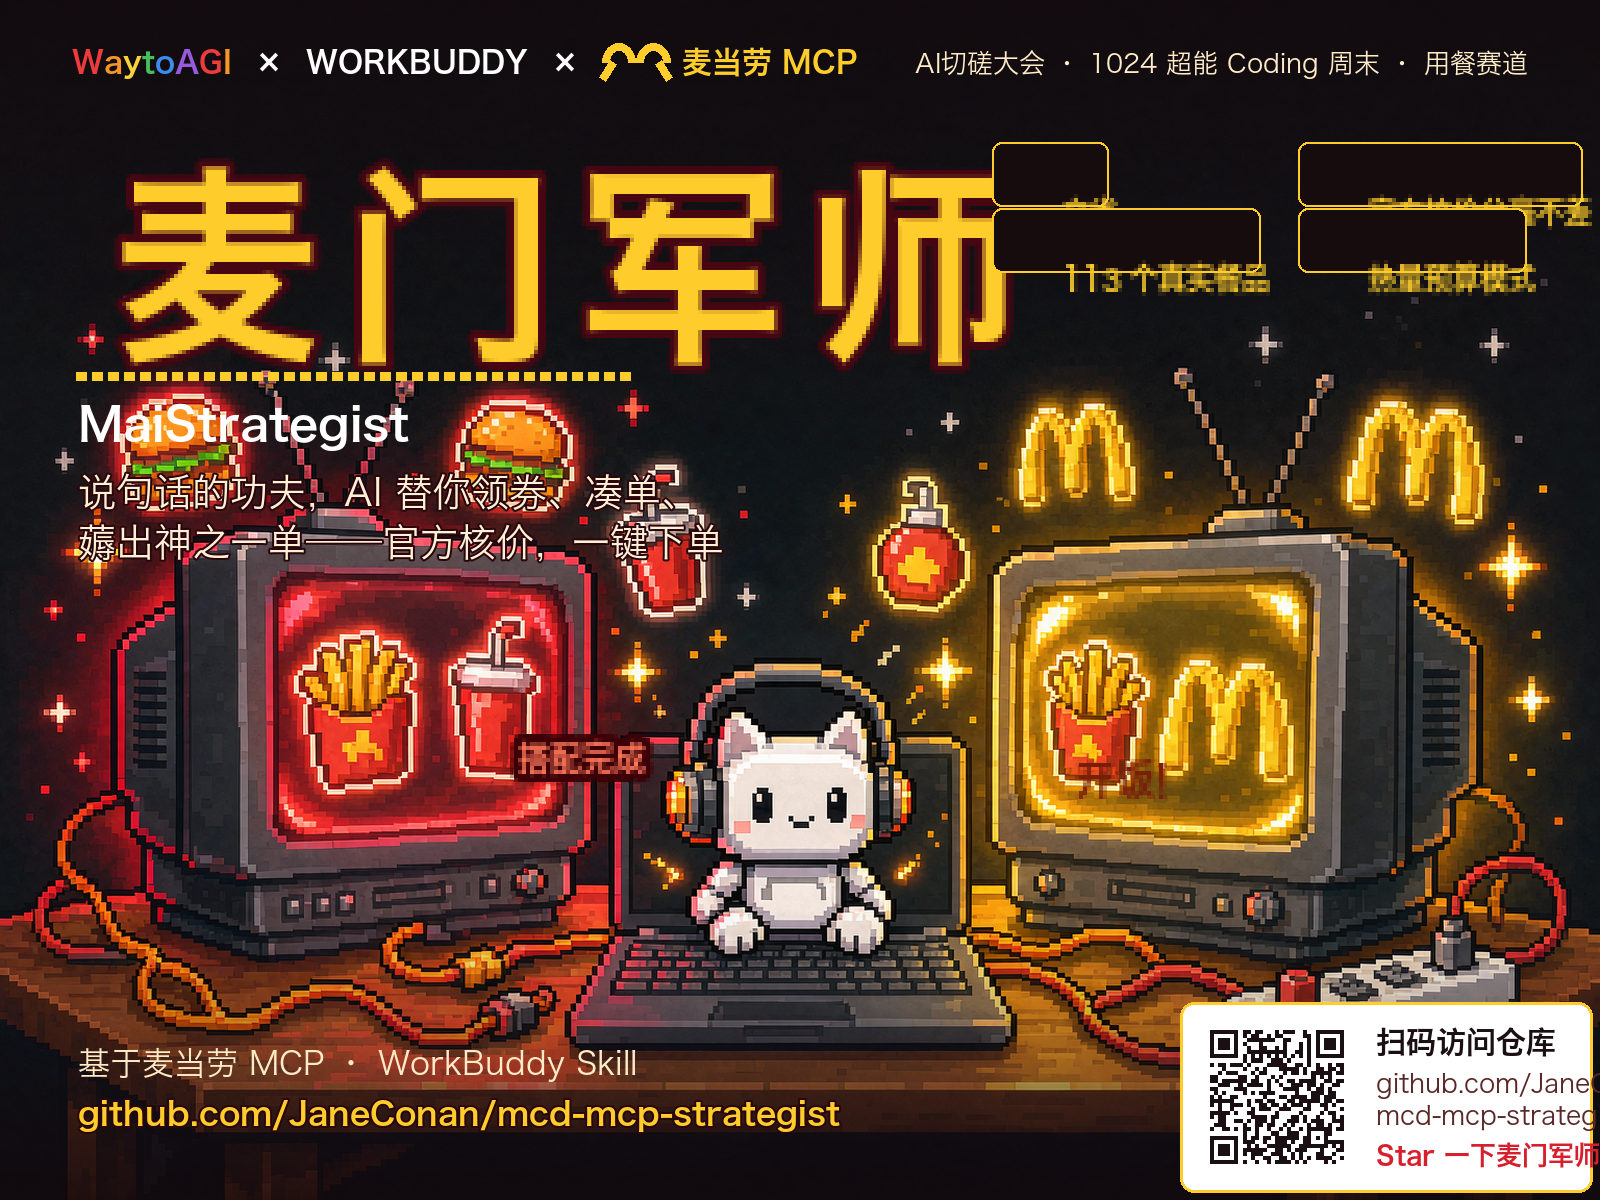
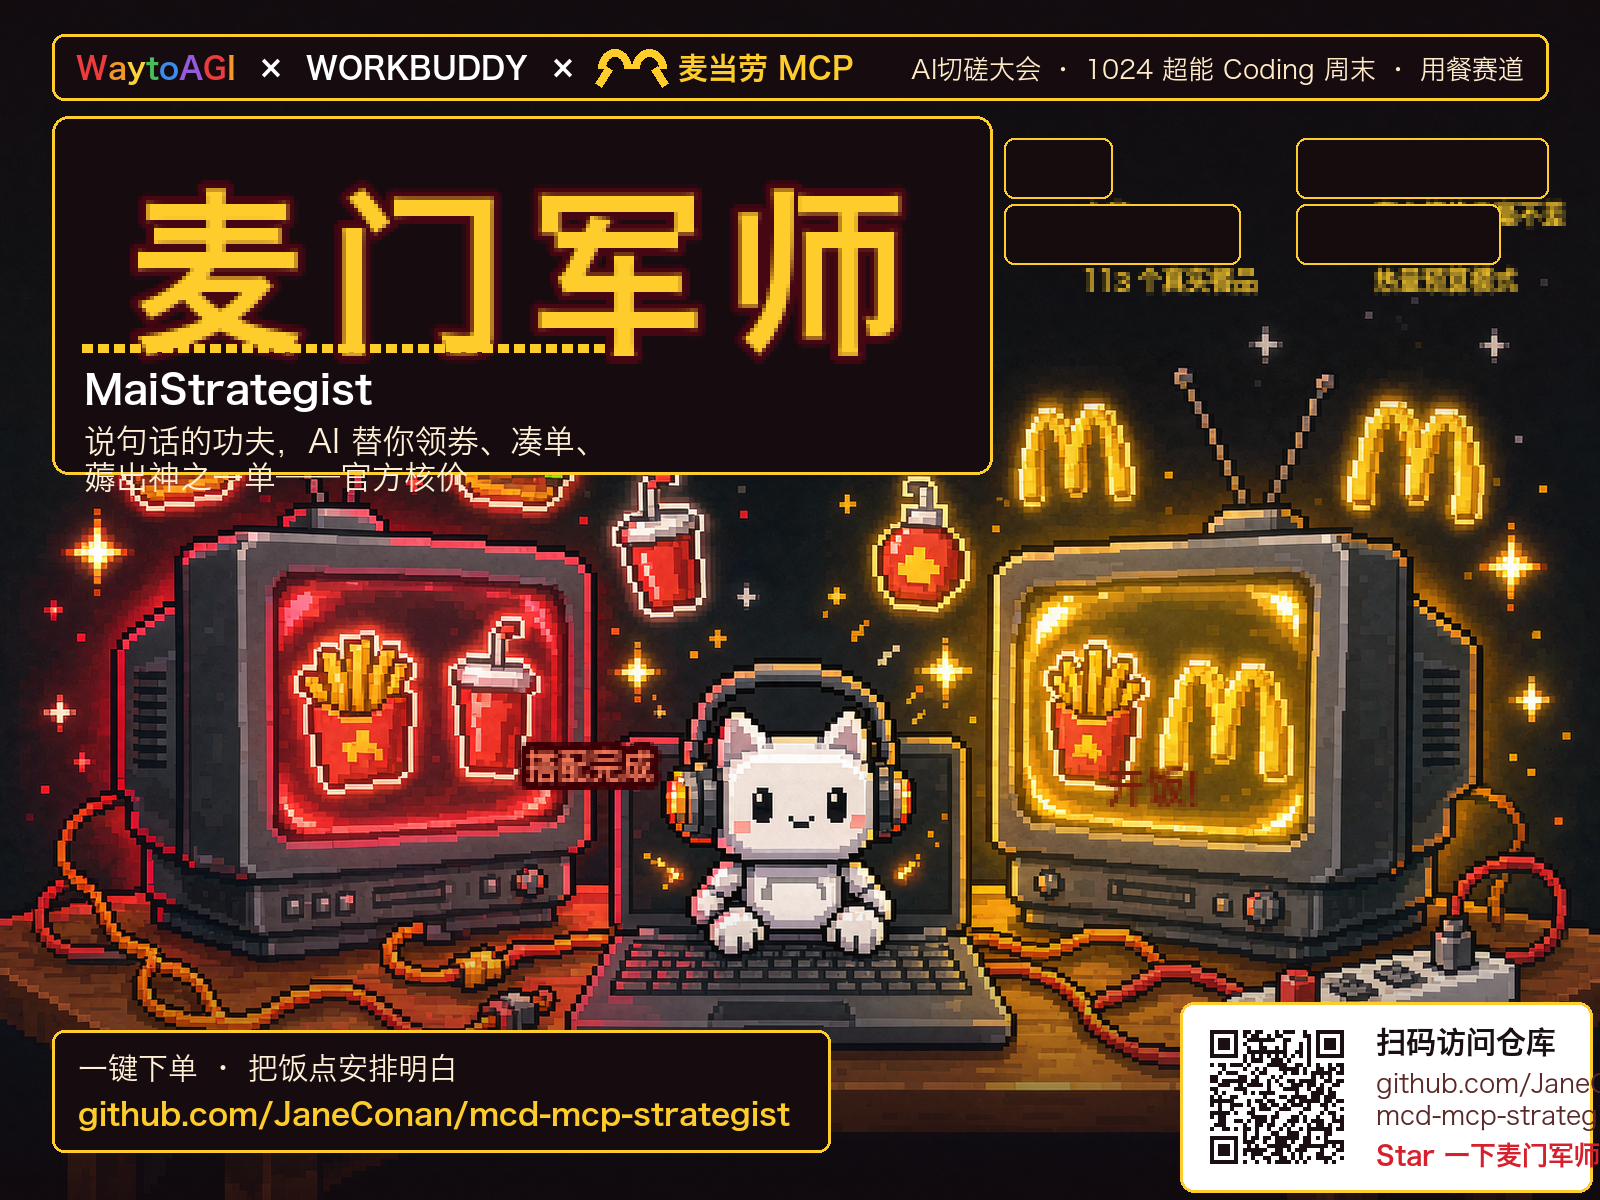
style: 封面所有文字块加深色金边面板(游戏对话框风)，解决文字糊在背景上
- 顶部联名横条 / 标题大对话框 / 左下信息面板 / 战绩 HUD / 二维码卡片
- 标语补回'官方核价'; 胶囊网格收边; '开饭!'入屏; QR 双格式复验可扫

diff --git a/scripts/make_cover.py b/scripts/make_cover.py
@@ -1,15 +1,16 @@
 #!/usr/bin/env python3
 # -*- coding: utf-8 -*-
 """
-生成 1024 提交用作品封面 v2（1600x1200, 4:3）——像素复古风。
+生成 1024 提交用作品封面 v3（1600x1200, 4:3）——像素复古风。
 参考 WaytoAGI 1024 用餐赛道官方海报视觉语言：8-bit 像素背景 + CRT 电视 +
-手绘金色 M + 彩虹联名行；中文大字用小字号渲染后 NEAREST 放大，得到真像素锯齿。
+手绘金色 M + 彩虹联名行；所有文字块都垫深色金边面板（游戏对话框风格），
+保证任何背景下文字都清晰。中文大字用小字号渲染后 NEAREST 放大得真像素锯齿。
 用法：python3 scripts/make_cover.py
 """
 import os
 import sys
 
-from PIL import Image, ImageDraw, ImageFont, ImageFilter
+from PIL import Image, ImageDraw, ImageFont
 
 HERE = os.path.dirname(os.path.abspath(__file__))
 ROOT = os.path.dirname(HERE)
@@ -21,10 +22,10 @@ W, H = 1600, 1200
 PIX = 4  # 像素放大倍数
 
 GOLD = (255, 205, 43)
-GOLD_DEEP = (255, 176, 32)
 RED = (214, 32, 46)
 RED_DARK = (70, 6, 18)
-INK = (26, 16, 20)          # 深咖底色
+INK = (26, 16, 20)
+PANEL = (22, 12, 16, 236)     # 面板底
 WHITE = (255, 255, 255)
 CREAM = (255, 240, 214)
 RAINBOW = [(238, 60, 60), (245, 150, 40), (250, 210, 60), (70, 190, 90),
@@ -41,40 +42,39 @@ def font(size, bold=False):
 
 def pixel_text(img, pos, text, final_size, fill, stroke_fill=None,
                bold=True, scale=PIX, stroke_w=2, spacing=0):
-    """小字号渲染后 NEAREST 放大，得到 8-bit 像素文字。spacing 为字间距(像素, 最终尺寸)。"""
+    """小字号渲染后 NEAREST 放大，得到 8-bit 像素文字。spacing 为字间距(最终像素)。"""
     small = final_size // scale
     f = font(small, bold)
     sw = stroke_w if stroke_fill else 0
+    tmp = Image.new("RGBA", (10, 10))
+    td = ImageDraw.Draw(tmp)
+    bbox = td.textbbox((0, 0), text, font=f, stroke_width=sw)
     if spacing:
-        # 逐字绘制以实现字间距
-        tmp = Image.new("RGBA", (10, 10))
-        td = ImageDraw.Draw(tmp)
-        bbox = td.textbbox((0, 0), text, font=f, stroke_width=sw)
         w = td.textlength(text, font=f) + spacing * (len(text) - 1)
-        layer = Image.new("RGBA", (int(w) + 20, bbox[3] - bbox[1] + 20), (0, 0, 0, 0))
+        layer = Image.new("RGBA", (int(w) + 24, bbox[3] - bbox[1] + 24), (0, 0, 0, 0))
         ld = ImageDraw.Draw(layer)
-        x = 10 - bbox[0]
+        x = 12 - bbox[0]
         for ch in text:
-            ld.text((x, 10 - bbox[1]), ch, font=f, fill=fill,
+            ld.text((x, 12 - bbox[1]), ch, font=f, fill=fill,
                     stroke_width=sw, stroke_fill=stroke_fill or fill)
             x += ld.textlength(ch, font=f) + spacing
     else:
-        tmp = Image.new("RGBA", (10, 10))
-        td = ImageDraw.Draw(tmp)
-        bbox = td.textbbox((0, 0), text, font=f, stroke_width=sw)
-        layer = Image.new("RGBA", (bbox[2] - bbox[0] + 20, bbox[3] - bbox[1] + 20),
+        layer = Image.new("RGBA", (bbox[2] - bbox[0] + 24, bbox[3] - bbox[1] + 24),
                           (0, 0, 0, 0))
         ld = ImageDraw.Draw(layer)
-        ld.text((10 - bbox[0], 10 - bbox[1]), text, font=f, fill=fill,
+        ld.text((12 - bbox[0], 12 - bbox[1]), text, font=f, fill=fill,
                 stroke_width=sw, stroke_fill=stroke_fill or fill)
     big = layer.resize((layer.width * scale, layer.height * scale), Image.NEAREST)
     img.paste(big, pos, big)
-    return big.width, big.height
 
 
 def draw_text(d, xy, s, f, fill, stroke=0, stroke_fill=None):
     d.text(xy, s, font=f, fill=fill, stroke_width=stroke,
            stroke_fill=stroke_fill or RED_DARK)
+
+
+def panel(d, box, radius=14, fill=PANEL, outline=GOLD, width=3):
+    d.rounded_rectangle(box, radius=radius, fill=fill, outline=outline, width=width)
 
 
 def draw_m_logo(d, x, y, s=34, color=GOLD):
@@ -91,7 +91,7 @@ def draw_m_logo(d, x, y, s=34, color=GOLD):
 
 
 def pixel_pill(img, x, y, text, final_size, pad_x=30, pad_y=14,
-               bg=(22, 12, 14, 205), outline=(255, 205, 43, 160), fill=GOLD):
+               bg=(22, 12, 14, 225), outline=(255, 205, 43, 200), fill=GOLD):
     d = ImageDraw.Draw(img)
     small = final_size // PIX
     f = font(small, True)
@@ -114,87 +114,81 @@ def main():
 
     bg = Image.open(BG).convert("RGBA").resize((W, H), Image.LANCZOS)
 
-    # 顶部与底部压暗，保证文字可读（中间电视区保持鲜艳）
+    # 顶部与底部压暗，让面板与场景融合
     shade = Image.new("L", (W, H), 0)
     sd = ImageDraw.Draw(shade)
     for y in range(H):
-        top = max(0, int(190 * (1 - y / 430.0) ** 1.4)) if y < 430 else 0
-        bot = max(0, int(200 * ((y - 900) / 300.0) ** 1.4)) if y > 900 else 0
+        top = max(0, int(170 * (1 - y / 470.0) ** 1.4)) if y < 470 else 0
+        bot = max(0, int(190 * ((y - 880) / 320.0) ** 1.4)) if y > 880 else 0
         sd.line([(0, y), (W, y)], fill=max(top, bot))
     dark = Image.new("RGBA", (W, H), (18, 8, 12, 255))
     bg = Image.composite(dark, bg, shade).convert("RGBA")
     d = ImageDraw.Draw(bg)
 
-    # ---- 顶部联名行：WaytoAGI 彩虹字 × WorkBuddy × 金色M 麦当劳 MCP ----
+    # ============ 面板 1：顶部联名横条 ============
+    panel(d, [52, 34, W - 52, 100], radius=12)
     f_brand = font(30, bold=True)
-    x = 72
-    y = 46
+    x, y = 76, 52
     for i, ch in enumerate("WaytoAGI"):
         d.text((x, y), ch, font=f_brand, fill=RAINBOW[i % len(RAINBOW)])
         x += d.textlength(ch, font=f_brand)
-    d.text((x + 22, y), "×", font=f_brand, fill=(255, 255, 255, 200))
-    x += 22 + d.textlength("×", font=f_brand) + 22
+    d.text((x + 20, y), "×", font=f_brand, fill=(255, 255, 255, 210))
+    x += 20 + d.textlength("×", font=f_brand) + 20
     d.text((x, y), "WORKBUDDY", font=font(30, True), fill=WHITE)
     x += d.textlength("WORKBUDDY", font=f_brand)
-    d.text((x + 22, y), "×", font=f_brand, fill=(255, 255, 255, 200))
-    x += 22 + d.textlength("×", font=f_brand) + 22
+    d.text((x + 20, y), "×", font=f_brand, fill=(255, 255, 255, 210))
+    x += 20 + d.textlength("×", font=f_brand) + 20
     draw_m_logo(d, x, y - 4, 34)
     x += 34 * 2 + 12
     d.text((x, y), "麦当劳 MCP", font=f_brand, fill=GOLD)
-
     # 右上角赛事信息
     f_evt = font(26)
     txt = "AI切磋大会 · 1024 超能 Coding 周末 · 用餐赛道"
-    d.text((W - 72 - d.textlength(txt, font=f_evt), y + 4), txt,
-           font=f_evt, fill=(255, 235, 200, 220))
+    d.text((W - 76 - d.textlength(txt, font=f_evt), y + 4), txt,
+           font=f_evt, fill=(255, 235, 200, 235))
 
-    # ---- 像素大标题 ----
-    pixel_text(bg, (66, 118), "麦门军师", 208, GOLD, stroke_fill=RED_DARK,
+    # ============ 面板 2：标题区（大对话框） ============
+    panel(d, [52, 116, 992, 474], radius=16)
+    pixel_text(bg, (74, 132), "麦门军师", 176, GOLD, stroke_fill=RED_DARK,
                bold=True, stroke_w=2, spacing=6)
-    # 标题下像素金线
-    for i in range(0, 560, 16):
-        d.rectangle([76 + i, 372, 76 + i + 10, 380], fill=GOLD)
+    for i in range(0, 520, 16):                       # 像素金线
+        d.rectangle([82 + i, 344, 82 + i + 10, 352], fill=GOLD)
+    d.text((84, 368), "MaiStrategist", font=font(40, True), fill=WHITE)
+    f_tag = font(32)
+    draw_text(d, (84, 424), "说句话的功夫，AI 替你领券、凑单、", f_tag, CREAM)
+    draw_text(d, (84, 460), "薅出神之一单——官方核价", f_tag, CREAM)
 
-    # ---- 英文名 + 一句话 ----
-    d.text((78, 400), "MaiStrategist", font=font(46, True), fill=WHITE)
-    f_tag = font(38)
-    draw_text(d, (78, 472), "说句话的功夫，AI 替你领券、凑单、", f_tag, CREAM,
-              stroke=2, stroke_fill=(40, 6, 12))
-    draw_text(d, (78, 522), "薅出神之一单——官方核价，一键下单", f_tag, CREAM,
-              stroke=2, stroke_fill=(40, 6, 12))
-
-    # ---- 战绩胶囊（像素风，右上角 2x2 悬浮面板） ----
+    # ============ 战绩胶囊（右上 2x2 HUD 面板） ============
     stats = ["立省", "官方核价分毫不差", "113 个真实餐品", "热量预算模式"]
     for i, t in enumerate(stats):
         col, row = i % 2, i // 2
-        pixel_pill(bg, 992 + col * 306, 142 + row * 66, t, 28)
+        pixel_pill(bg, 1004 + col * 292, 138 + row * 66, t, 26)
 
-    # ---- CRT 屏幕叠字（呼应官方海报的"搭配完成/开饭"） ----
-    # 左屏（红）：搭配完成 ✓
-    pixel_text(bg, (470, 690), "搭配完成", 34, (255, 120, 90),
+    # ============ CRT 屏幕叠字 ============
+    pixel_text(bg, (470, 690), "搭配完成", 34, (255, 130, 95),
                stroke_fill=(60, 0, 6), bold=True)
-    # 右屏（黄）：开饭！
-    pixel_text(bg, (1035, 715), "开饭!", 40, (120, 30, 10), bold=True)
+    pixel_text(bg, (1058, 715), "开饭!", 40, (120, 30, 10), bold=True)
 
-    # ---- 左下角信息 ----
-    d.text((78, 1046), "基于麦当劳 MCP · WorkBuddy Skill", font=font(32),
-           fill=(255, 235, 200, 230))
-    d.text((78, 1096), "github.com/JaneConan/mcd-mcp-strategist",
-           font=font(32, True), fill=GOLD, stroke_width=2,
-           stroke_fill=(40, 6, 12))
+    # ============ 面板 3：左下信息区 ============
+    panel(d, [52, 1030, 830, 1152], radius=12)
+    d.text((78, 1052), "一键下单 · 把饭点安排明白",
+           font=font(30), fill=CREAM)
+    d.text((78, 1098), "github.com/JaneConan/mcd-mcp-strategist",
+           font=font(30, True), fill=GOLD)
 
-    # ---- 右下：二维码卡片（盖住 AI 水印，扫码直达仓库） ----
+    # ============ 右下：二维码卡片 ============
     try:
         import qrcode
         qr = qrcode.QRCode(error_correction=qrcode.constants.ERROR_CORRECT_M,
                            box_size=10, border=2)
         qr.add_data("https://github.com/JaneConan/mcd-mcp-strategist")
         qr.make(fit=True)
-        qr_img = qr.make_image(fill_color="#1a1014", back_color="white").convert("RGB")
+        qr_img = qr.make_image(fill_color="#1a1014",
+                               back_color="white").convert("RGB")
         qr_size = 150
         qr_img = qr_img.resize((qr_size, qr_size), Image.NEAREST)
         card = [1180, 1002, W - 8, H - 8]
-        d.rounded_rectangle(card, radius=14, fill=(255, 255, 255, 245),
+        d.rounded_rectangle(card, radius=14, fill=(255, 255, 255, 248),
                             outline=GOLD, width=3)
         bg.paste(qr_img, (card[0] + 22, card[1] + 20))
         tx = card[0] + 22 + qr_size + 24
@@ -203,7 +197,8 @@ def main():
                fill=(90, 40, 40))
         d.text((tx, card[1] + 100), "mcd-mcp-strategist", font=font(26),
                fill=(90, 40, 40))
-        d.text((tx, card[1] + 140), "Star 一下麦门军师", font=font(26, True), fill=RED)
+        d.text((tx, card[1] + 140), "Star 一下麦门军师", font=font(26, True),
+               fill=RED)
     except ImportError:
         print("提示: pip install qrcode 后可生成右下角二维码")
 
